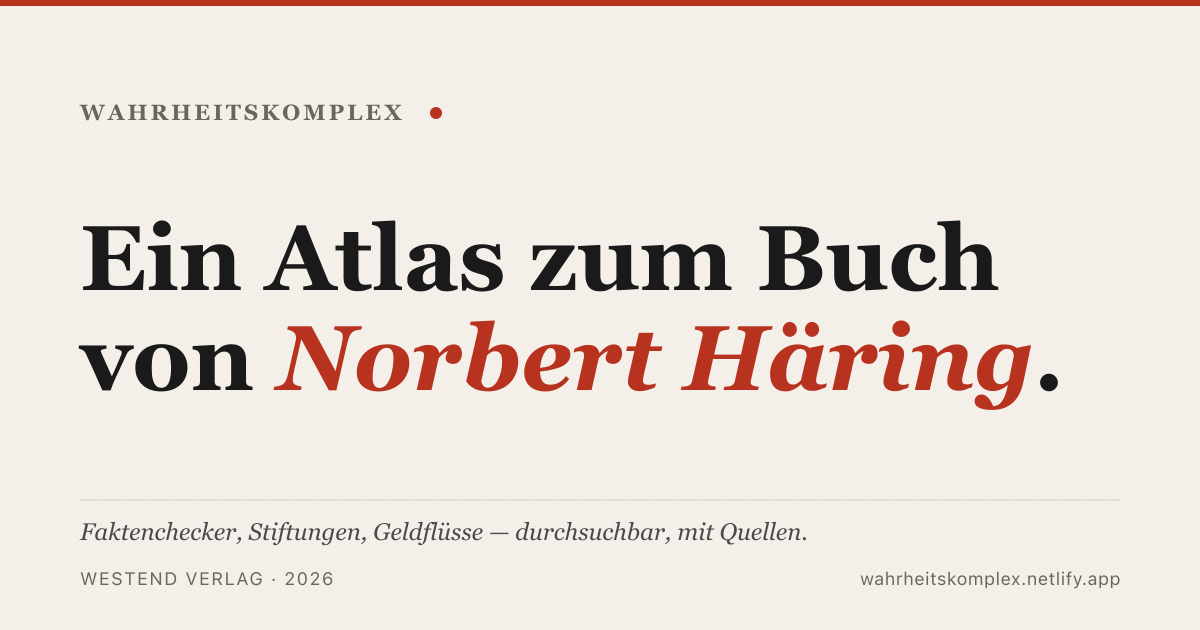
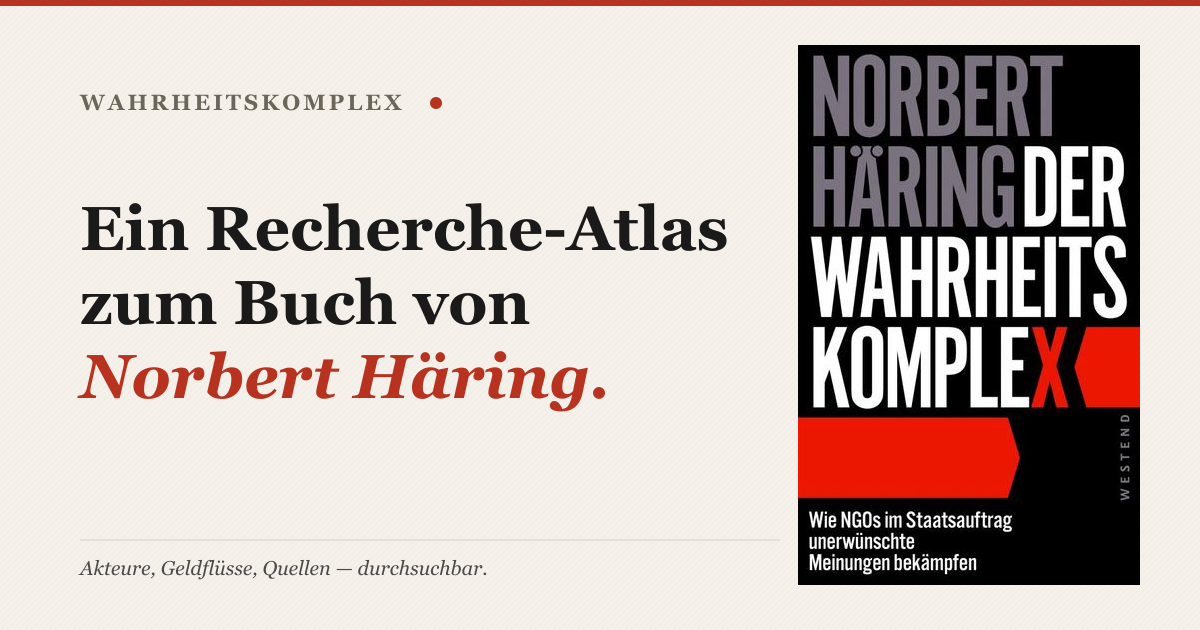
Use real Westend Verlag cover image; OG composite with cover; real product URL

diff --git a/src/data/book.ts b/src/data/book.ts
@@ -20,5 +20,5 @@ export const book: Book = {
     'Norbert Häring zeichnet nach, wie ein Geflecht aus Behörden, Stiftungen, Think Tanks und NGOs entstanden ist, das den westlichen Mediendiskurs strukturiert — von der Wissenschaftskommunikation über Klima-Berichterstattung bis zu Plattform-Regulierung. Mit einer Fülle an Belegen, Geldspuren und Personalverflechtungen.',
   authorBio:
     'Norbert Häring ist Wirtschaftsjournalist und Autor mehrerer Bestseller (u.a. „Die Abschaffung des Bargelds“). Auf norberthaering.de recherchiert er seit 2014 zu Geldsystem, Macht und Medien.',
-  buyUrl: 'https://www.westendverlag.de/',
+  buyUrl: 'https://westendverlag.de/Der-Wahrheitskomplex/2379',
 };
